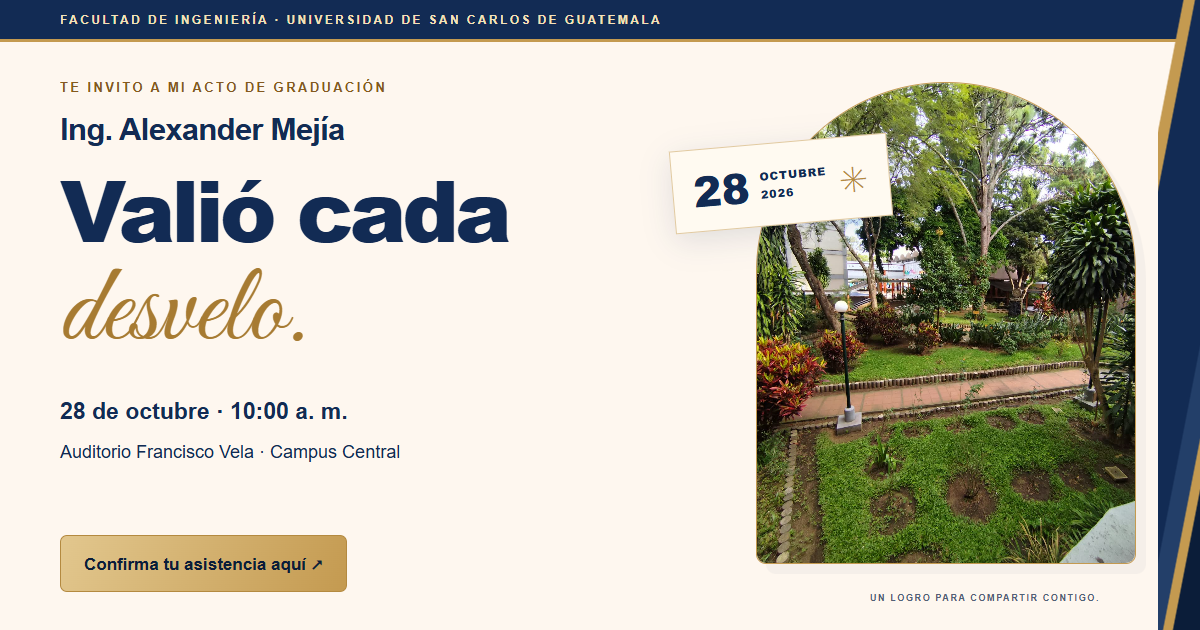
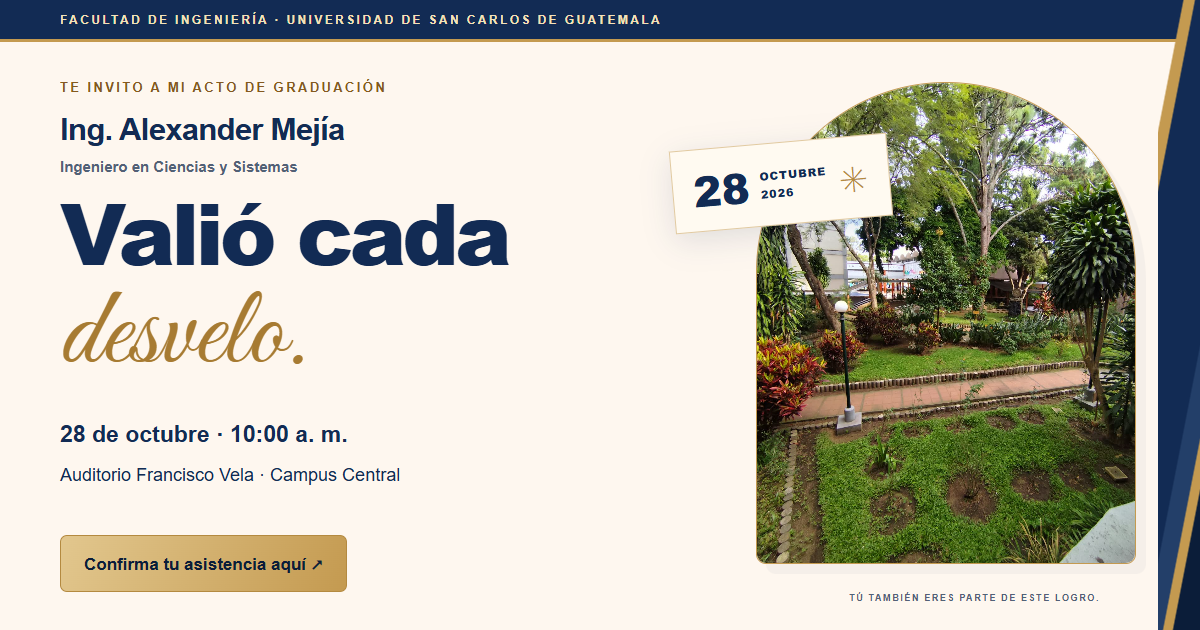
Personaliza la invitación con el mensaje y la carrera de Alexander

Changed region(s): [[0.0308, 0.2413, 0.4317, 0.573], [0.0308, 0.6333, 0.3392, 0.7841], [0.7092, 0.9349, 0.8942, 0.9651]]

diff --git a/docs/index.html b/docs/index.html
@@ -6,18 +6,18 @@
 <meta name="referrer" content="no-referrer">
 <meta name="theme-color" content="#122b54">
 <title>Graduación · Ing. Alexander Mejía</title>
-<meta name="description" content="Te invito a mi graduación. 28 de octubre de 2026, 10:00 a. m. Auditorio Francisco Vela. Confirma tu asistencia aquí.">
+<meta name="description" content="Después de tantos desvelos, proyectos y parciales, hoy cumplo mi sueño de ser Ingeniero en Ciencias y Sistemas. Tú también eres parte de este logro.">
 <meta property="og:type" content="website">
 <meta property="og:locale" content="es_GT">
 <meta property="og:title" content="🎓 Graduación · Ing. Alexander Mejía">
-<meta property="og:description" content="28 de octubre · 10:00 a. m. · Auditorio Francisco Vela. ¡Acompáñame! Confirma tu asistencia aquí.">
+<meta property="og:description" content="Tú también eres parte de este logro. Acompáñame a mi graduación como Ingeniero en Ciencias y Sistemas. Miércoles 28 de octubre · 10:00 a. m.">
 <meta property="og:url" content="https://alex-m21.github.io/Graduacion_Ing_Alexander/">
 <meta property="og:image" content="https://alex-m21.github.io/Graduacion_Ing_Alexander/share-card.png">
 <meta property="og:image:width" content="1200"><meta property="og:image:height" content="630">
 <meta property="og:image:alt" content="Invitación a la graduación del Ing. Alexander Mejía, 28 de octubre de 2026 a las 10:00 a. m.">
 <meta name="twitter:card" content="summary_large_image">
-<link rel="icon" href="./favicon.svg"><link rel="stylesheet" href="./styles.css?v=5cec2bf2502f"><link rel="stylesheet" href="./faculty.css?v=5cec2bf2502f">
-<script defer src="./config.js?v=5cec2bf2502f"></script><script defer src="./app.js?v=5cec2bf2502f"></script>
+<link rel="icon" href="./favicon.svg"><link rel="stylesheet" href="./styles.css?v=9a95585362cc"><link rel="stylesheet" href="./faculty.css?v=9a95585362cc">
+<script defer src="./config.js?v=9a95585362cc"></script><script defer src="./app.js?v=9a95585362cc"></script>
 </head><body><div class="invitation-v3">
   <a class="skip-link" href="#registro">Ir al registro</a>
   <div id="celebration-rain" class="celebration-rain" aria-hidden="true"></div>
@@ -34,7 +34,7 @@
           <p class="hero-pretitle">TE INVITO A MI ACTO DE GRADUACIÓN</p>
           <p class="graduate-name">Ing. Alexander Mejía</p>
           <h1 id="hero-title">Valió cada<br><em>desvelo.</em><span class="title-star" aria-hidden="true">✳</span></h1>
-          <p class="hero-message">Hay momentos que se vuelven inolvidables<br class="desktop-break"> cuando los compartimos.<br>Este es uno de ellos. <strong>Y quiero vivirlo contigo.</strong></p>
+          <div class="hero-message"><p>Cada persona a la que invito formó parte de este proceso. <strong>Tú también eres parte de este logro.</strong></p><p>Después de tantos desvelos, proyectos y parciales, hoy cumplo mi sueño y mi meta: <strong>ser Ingeniero en Ciencias y Sistemas.</strong></p><p>Me gustaría que me acompañes a mi acto de graduación este <strong>miércoles 28 de octubre.</strong> ¡Te esperamos!</p></div>
           <div class="hero-details"><p><span aria-hidden="true">◷</span> <time datetime="2026-10-28T10:00:00-06:00">28 de octubre · 10:00 a. m.</time></p><p><span aria-hidden="true">⌖</span> Auditorio Francisco Vela</p></div>
           <a class="button orange hero-cta" href="#registro">Confirmar mi asistencia <span aria-hidden="true">↗</span></a>
           <p class="hero-help">Registro rápido · No necesitas crear una cuenta</p>

diff --git a/invitacion/web/share-card.html b/invitacion/web/share-card.html
@@ -6,11 +6,11 @@
 .faculty{height:42px;background:#122b54;color:#f5e2ba;border-bottom:3px solid #c49a50;padding:13px 60px;font-size:12px;letter-spacing:2.4px;font-weight:700}
 .card{height:588px;padding:38px 60px;position:relative;isolation:isolate}
 .card::after{content:"";position:absolute;top:-42px;right:0;bottom:0;width:42px;z-index:-1;background:linear-gradient(101deg,transparent 0 15%,#c49a50 16% 22%,#122b54 23% 66%,#233f69 67% 77%,#c49a50 78% 83%,#0b1d39 84%)}
-.eyebrow{font-size:13px;letter-spacing:2.4px;font-weight:700;color:#85591f}.name{font-size:31px;font-weight:700;margin:17px 0 17px;letter-spacing:-.7px}
+.eyebrow{font-size:13px;letter-spacing:2.4px;font-weight:700;color:#85591f}.name{font-size:31px;font-weight:700;margin:17px 0 10px;letter-spacing:-.7px}.degree{font-size:15px;font-weight:600;color:#526176;margin:0 0 13px}
 h1{font-size:85px;line-height:1.02;letter-spacing:-4px;margin:0;font-weight:800}h1 em{color:#a77b32;font-family:"Great Vibes",Georgia,serif;font-weight:400;font-style:normal;letter-spacing:0;font-size:112px;line-height:1.12}
 .details{font-size:23px;line-height:1.7;margin-top:15px}.details small{font-size:18px}.cta{position:absolute;bottom:38px;left:60px;background:linear-gradient(115deg,#e2c78e,#c49a50);border:1px solid #b48a40;font-weight:700;font-size:17px;padding:16px 23px;border-radius:7px;color:#0b1d39}
 .photo{position:absolute;right:64px;top:40px;width:380px;height:482px;border:1px solid #c49a50;border-radius:190px 190px 10px 10px;object-fit:cover;object-position:center;box-shadow:10px 10px 0 #122b540a}
 .stamp{position:absolute;right:310px;top:100px;background:#fffaf1;border:1px solid #c49a5080;padding:11px 20px;box-shadow:0 8px 30px #122b5420;transform:rotate(-5deg);font-size:42px;font-weight:800;display:flex;align-items:center;gap:11px}.stamp span{font-size:11px;line-height:1.6;letter-spacing:1px}.star{color:#b58a3c;font-size:35px;font-style:normal;font-weight:400}.note{position:absolute;bottom:27px;right:100px;font-size:9px;letter-spacing:1.6px;color:#526176;font-weight:700}
 </style>
 <div class="faculty">FACULTAD DE INGENIERÍA · UNIVERSIDAD DE SAN CARLOS DE GUATEMALA</div>
-<div class="card"><div class="eyebrow">TE INVITO A MI ACTO DE GRADUACIÓN</div><p class="name">Ing. Alexander Mejía</p><h1>Valió cada<br><em>desvelo.</em></h1><div class="details"><b>28 de octubre · 10:00 a. m.</b><br><small>Auditorio Francisco Vela · Campus Central</small></div><div class="cta">Confirma tu asistencia aquí ↗</div><img class="photo" src="../public/venue/jardin-campus.jpeg" alt="Jardines del campus"><div class="stamp">28<span>OCTUBRE<br>2026</span><i class="star">✳</i></div><div class="note">UN LOGRO PARA COMPARTIR CONTIGO.</div></div></html>
+<div class="card"><div class="eyebrow">TE INVITO A MI ACTO DE GRADUACIÓN</div><p class="name">Ing. Alexander Mejía</p><p class="degree">Ingeniero en Ciencias y Sistemas</p><h1>Valió cada<br><em>desvelo.</em></h1><div class="details"><b>28 de octubre · 10:00 a. m.</b><br><small>Auditorio Francisco Vela · Campus Central</small></div><div class="cta">Confirma tu asistencia aquí ↗</div><img class="photo" src="../public/venue/jardin-campus.jpeg" alt="Jardines del campus"><div class="stamp">28<span>OCTUBRE<br>2026</span><i class="star">✳</i></div><div class="note">TÚ TAMBIÉN ERES PARTE DE ESTE LOGRO.</div></div></html>

diff --git a/docs/app.js b/docs/app.js
@@ -80,11 +80,11 @@
   });
   $("share-invitation").addEventListener("click",async()=>{
     const url=publicUrl();
-    try { if(navigator.share) await navigator.share({title:"Graduación Ing. Alexander Mejía",text:"Acompáñame a celebrar. Confirma tu asistencia aquí:",url}); else {await navigator.clipboard.writeText(url);toast("Enlace de la invitación copiado.");} }
+    try { if(navigator.share) await navigator.share({title:"Graduación Ing. Alexander Mejía",text:"Tú también eres parte de este logro. Acompáñame a celebrar mi graduación como Ingeniero en Ciencias y Sistemas este miércoles 28 de octubre, a las 10:00 a. m.",url}); else {await navigator.clipboard.writeText(url);toast("Enlace de la invitación copiado.");} }
     catch(error) {if(error.name!=="AbortError") toast("Comparte este enlace: "+url);}
   });
   // Share the public invitation only; a guest's private access stays on this device.
-  $("share-whatsapp").href="https://wa.me/?text="+encodeURIComponent("🎓 Te invito a la graduación del Ing. Alexander Mejía.\n📅 28 de octubre de 2026 · 10:00 a. m.\n📍 Auditorio Francisco Vela, Campus Central, zona 12.\nConfirma tu asistencia aquí: "+publicUrl());
+  $("share-whatsapp").href="https://wa.me/?text="+encodeURIComponent("Después de tantos desvelos, proyectos y parciales, hoy cumplo mi sueño de ser Ingeniero en Ciencias y Sistemas. Tú formaste parte de este proceso y quiero compartir contigo este logro.\n\n🎓 Graduación de Alexander Mejía\n📅 Miércoles 28 de octubre de 2026 · 10:00 a. m.\n📍 Auditorio Francisco Vela, Campus Central, zona 12.\n¡Te esperamos! Confirma tu asistencia aquí: "+publicUrl());
   $("calendar-button").addEventListener("click",()=>{
     const text=["BEGIN:VCALENDAR","VERSION:2.0","PRODID:-//Alexander Mejia//Graduacion//ES","BEGIN:VEVENT","UID:alexander-graduacion-20261028","DTSTAMP:"+new Date().toISOString().replace(/[-:]/g,"").replace(".000",""),"DTSTART:20261028T160000Z","SUMMARY:Graduación Ing. Alexander Mejía","LOCATION:Auditorio Francisco Vela - Campus Central zona 12 - cerca del edificio T3","DESCRIPTION:Lleva identificación de estudiante o DPI y confirma tu asistencia en la invitación.","END:VEVENT","END:VCALENDAR"].join("\r\n");
     const url=URL.createObjectURL(new Blob([text],{type:"text/calendar;charset=utf-8"})); const a=document.createElement("a");a.href=url;a.download="graduacion-alexander.ics";a.click();setTimeout(()=>URL.revokeObjectURL(url),1000);

diff --git a/invitacion/public/web/app.js b/invitacion/public/web/app.js
@@ -80,11 +80,11 @@
   });
   $("share-invitation").addEventListener("click",async()=>{
     const url=publicUrl();
-    try { if(navigator.share) await navigator.share({title:"Graduación Ing. Alexander Mejía",text:"Acompáñame a celebrar. Confirma tu asistencia aquí:",url}); else {await navigator.clipboard.writeText(url);toast("Enlace de la invitación copiado.");} }
+    try { if(navigator.share) await navigator.share({title:"Graduación Ing. Alexander Mejía",text:"Tú también eres parte de este logro. Acompáñame a celebrar mi graduación como Ingeniero en Ciencias y Sistemas este miércoles 28 de octubre, a las 10:00 a. m.",url}); else {await navigator.clipboard.writeText(url);toast("Enlace de la invitación copiado.");} }
     catch(error) {if(error.name!=="AbortError") toast("Comparte este enlace: "+url);}
   });
   // Share the public invitation only; a guest's private access stays on this device.
-  $("share-whatsapp").href="https://wa.me/?text="+encodeURIComponent("🎓 Te invito a la graduación del Ing. Alexander Mejía.\n📅 28 de octubre de 2026 · 10:00 a. m.\n📍 Auditorio Francisco Vela, Campus Central, zona 12.\nConfirma tu asistencia aquí: "+publicUrl());
+  $("share-whatsapp").href="https://wa.me/?text="+encodeURIComponent("Después de tantos desvelos, proyectos y parciales, hoy cumplo mi sueño de ser Ingeniero en Ciencias y Sistemas. Tú formaste parte de este proceso y quiero compartir contigo este logro.\n\n🎓 Graduación de Alexander Mejía\n📅 Miércoles 28 de octubre de 2026 · 10:00 a. m.\n📍 Auditorio Francisco Vela, Campus Central, zona 12.\n¡Te esperamos! Confirma tu asistencia aquí: "+publicUrl());
   $("calendar-button").addEventListener("click",()=>{
     const text=["BEGIN:VCALENDAR","VERSION:2.0","PRODID:-//Alexander Mejia//Graduacion//ES","BEGIN:VEVENT","UID:alexander-graduacion-20261028","DTSTAMP:"+new Date().toISOString().replace(/[-:]/g,"").replace(".000",""),"DTSTART:20261028T160000Z","SUMMARY:Graduación Ing. Alexander Mejía","LOCATION:Auditorio Francisco Vela - Campus Central zona 12 - cerca del edificio T3","DESCRIPTION:Lleva identificación de estudiante o DPI y confirma tu asistencia en la invitación.","END:VEVENT","END:VCALENDAR"].join("\r\n");
     const url=URL.createObjectURL(new Blob([text],{type:"text/calendar;charset=utf-8"})); const a=document.createElement("a");a.href=url;a.download="graduacion-alexander.ics";a.click();setTimeout(()=>URL.revokeObjectURL(url),1000);

diff --git a/invitacion/web/body.html b/invitacion/web/body.html
@@ -14,7 +14,7 @@
           <p class="hero-pretitle">TE INVITO A MI ACTO DE GRADUACIÓN</p>
           <p class="graduate-name">Ing. Alexander Mejía</p>
           <h1 id="hero-title">Valió cada<br><em>desvelo.</em><span class="title-star" aria-hidden="true">✳</span></h1>
-          <p class="hero-message">Hay momentos que se vuelven inolvidables<br class="desktop-break"> cuando los compartimos.<br>Este es uno de ellos. <strong>Y quiero vivirlo contigo.</strong></p>
+          <div class="hero-message"><p>Cada persona a la que invito formó parte de este proceso. <strong>Tú también eres parte de este logro.</strong></p><p>Después de tantos desvelos, proyectos y parciales, hoy cumplo mi sueño y mi meta: <strong>ser Ingeniero en Ciencias y Sistemas.</strong></p><p>Me gustaría que me acompañes a mi acto de graduación este <strong>miércoles 28 de octubre.</strong> ¡Te esperamos!</p></div>
           <div class="hero-details"><p><span aria-hidden="true">◷</span> <time datetime="2026-10-28T10:00:00-06:00">28 de octubre · 10:00 a. m.</time></p><p><span aria-hidden="true">⌖</span> Auditorio Francisco Vela</p></div>
           <a class="button orange hero-cta" href="#registro">Confirmar mi asistencia <span aria-hidden="true">↗</span></a>
           <p class="hero-help">Registro rápido · No necesitas crear una cuenta</p>

diff --git a/invitacion/app/layout.tsx b/invitacion/app/layout.tsx
@@ -3,12 +3,12 @@ import "./globals.css";
 
 export const metadata: Metadata = {
   title: "Graduación · Ing. Alexander Mejía",
-  description: "Acompáñame a celebrar este logro. Confirma tu asistencia y comparte los recuerdos de la graduación.",
+  description: "Después de tantos desvelos, proyectos y parciales, hoy cumplo mi sueño de ser Ingeniero en Ciencias y Sistemas. Tú también eres parte de este logro.",
   openGraph: {
     type: "website",
     locale: "es_GT",
     title: "🎓 Graduación · Ing. Alexander Mejía",
-    description: "28 de octubre · 10:00 a. m. · Auditorio Francisco Vela. ¡Acompáñame! Confirma tu asistencia aquí.",
+    description: "Tú también eres parte de este logro. Acompáñame a mi graduación como Ingeniero en Ciencias y Sistemas. Miércoles 28 de octubre · 10:00 a. m.",
     images: [{ url: "https://alex-m21.github.io/Graduacion_Ing_Alexander/share-card.png", width: 1200, height: 630, alt: "Graduación del Ing. Alexander Mejía, 28 de octubre de 2026 a las 10:00 a. m." }],
   },
   twitter: { card: "summary_large_image" },

diff --git a/docs/faculty.css b/docs/faculty.css
@@ -23,6 +23,7 @@ body{background:var(--ivory);color:var(--navy)}
 .hero h1 em{font-size:1.18em;line-height:1.1;display:inline-block;padding-right:.1em;color:#a77b32}
 .title-star{color:var(--gold)}
 .hero-message strong{color:var(--navy)}
+.hero-message>p+p{margin-top:14px}
 .graduate-name{color:var(--navy)}
 .orange{background:linear-gradient(115deg,#e2c78e,#c49a50);color:var(--navy-deep);border:1px solid #b48a40;box-shadow:0 3px 12px #b48a4012}
 .dark{background:var(--navy);color:var(--ivory)}

diff --git a/invitacion/public/web/faculty.css b/invitacion/public/web/faculty.css
@@ -23,6 +23,7 @@ body{background:var(--ivory);color:var(--navy)}
 .hero h1 em{font-size:1.18em;line-height:1.1;display:inline-block;padding-right:.1em;color:#a77b32}
 .title-star{color:var(--gold)}
 .hero-message strong{color:var(--navy)}
+.hero-message>p+p{margin-top:14px}
 .graduate-name{color:var(--navy)}
 .orange{background:linear-gradient(115deg,#e2c78e,#c49a50);color:var(--navy-deep);border:1px solid #b48a40;box-shadow:0 3px 12px #b48a4012}
 .dark{background:var(--navy);color:var(--ivory)}

diff --git a/invitacion/lib/event.ts b/invitacion/lib/event.ts
@@ -1,7 +1,7 @@
 export const event = {
   title: "Graduación Ing. Alexander Mejía",
   name: "Alexander Mejía",
-  degree: "Ingeniero",
+  degree: "Ingeniero en Ciencias y Sistemas",
   startsAt: "2026-10-28T10:00:00-06:00",
   albumOpensAt: "2026-10-22T00:00:00-06:00",
   timezone: "America/Guatemala",
